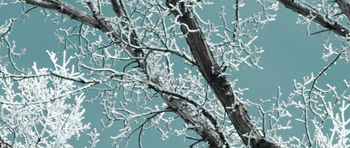
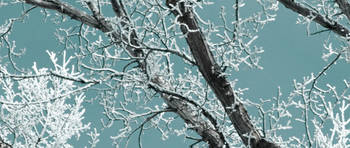
fix: Increase compression on JPGs
Increase compression to reduce file size and test quality.

diff --git a/Gruntfile.js b/Gruntfile.js
@@ -12,19 +12,19 @@ module.exports = function(grunt) {
             width: '100%',
             rename: false,
             suffix: '@3x',
-            quality: 80
+            quality: 70
           },
           {
             width: '66.66%',
             rename: false,
             suffix: '@2x',
-            quality: 80
+            quality: 70
           },
           {
             width: '33.33%',
             rename: false,
             suffix: '@1x',
-            quality: 80
+            quality: 70
           }]
         },
 
